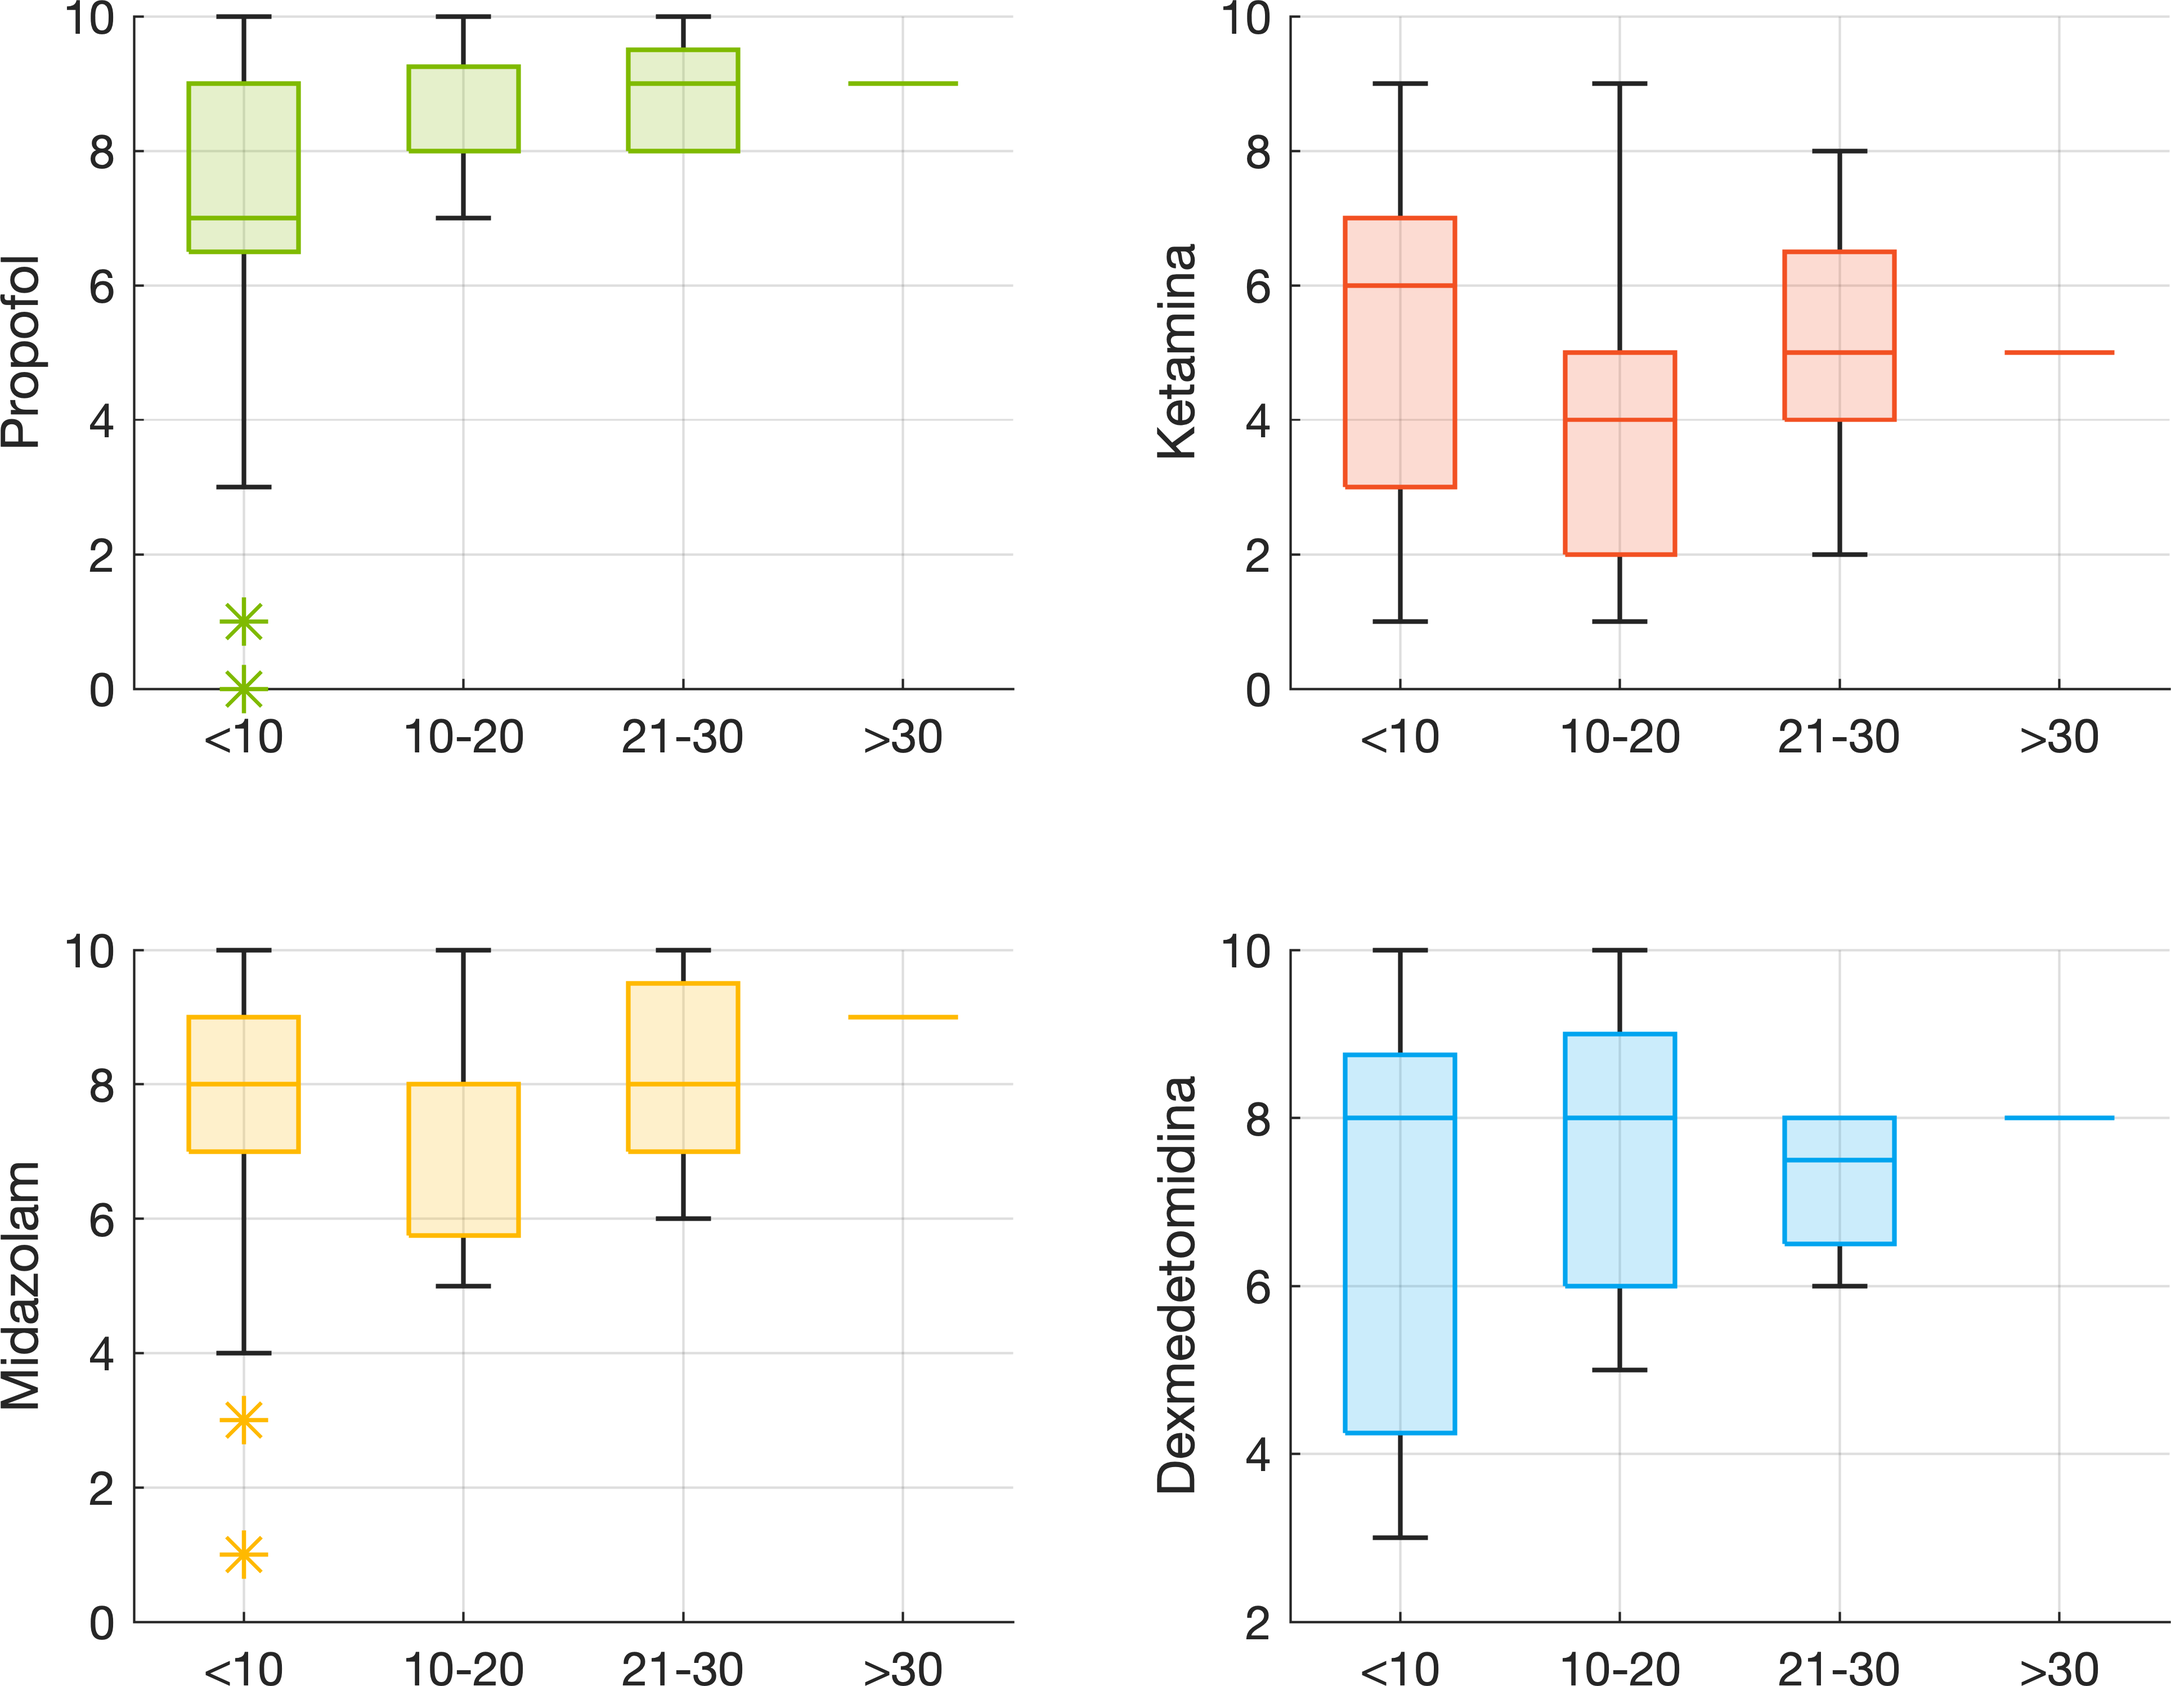
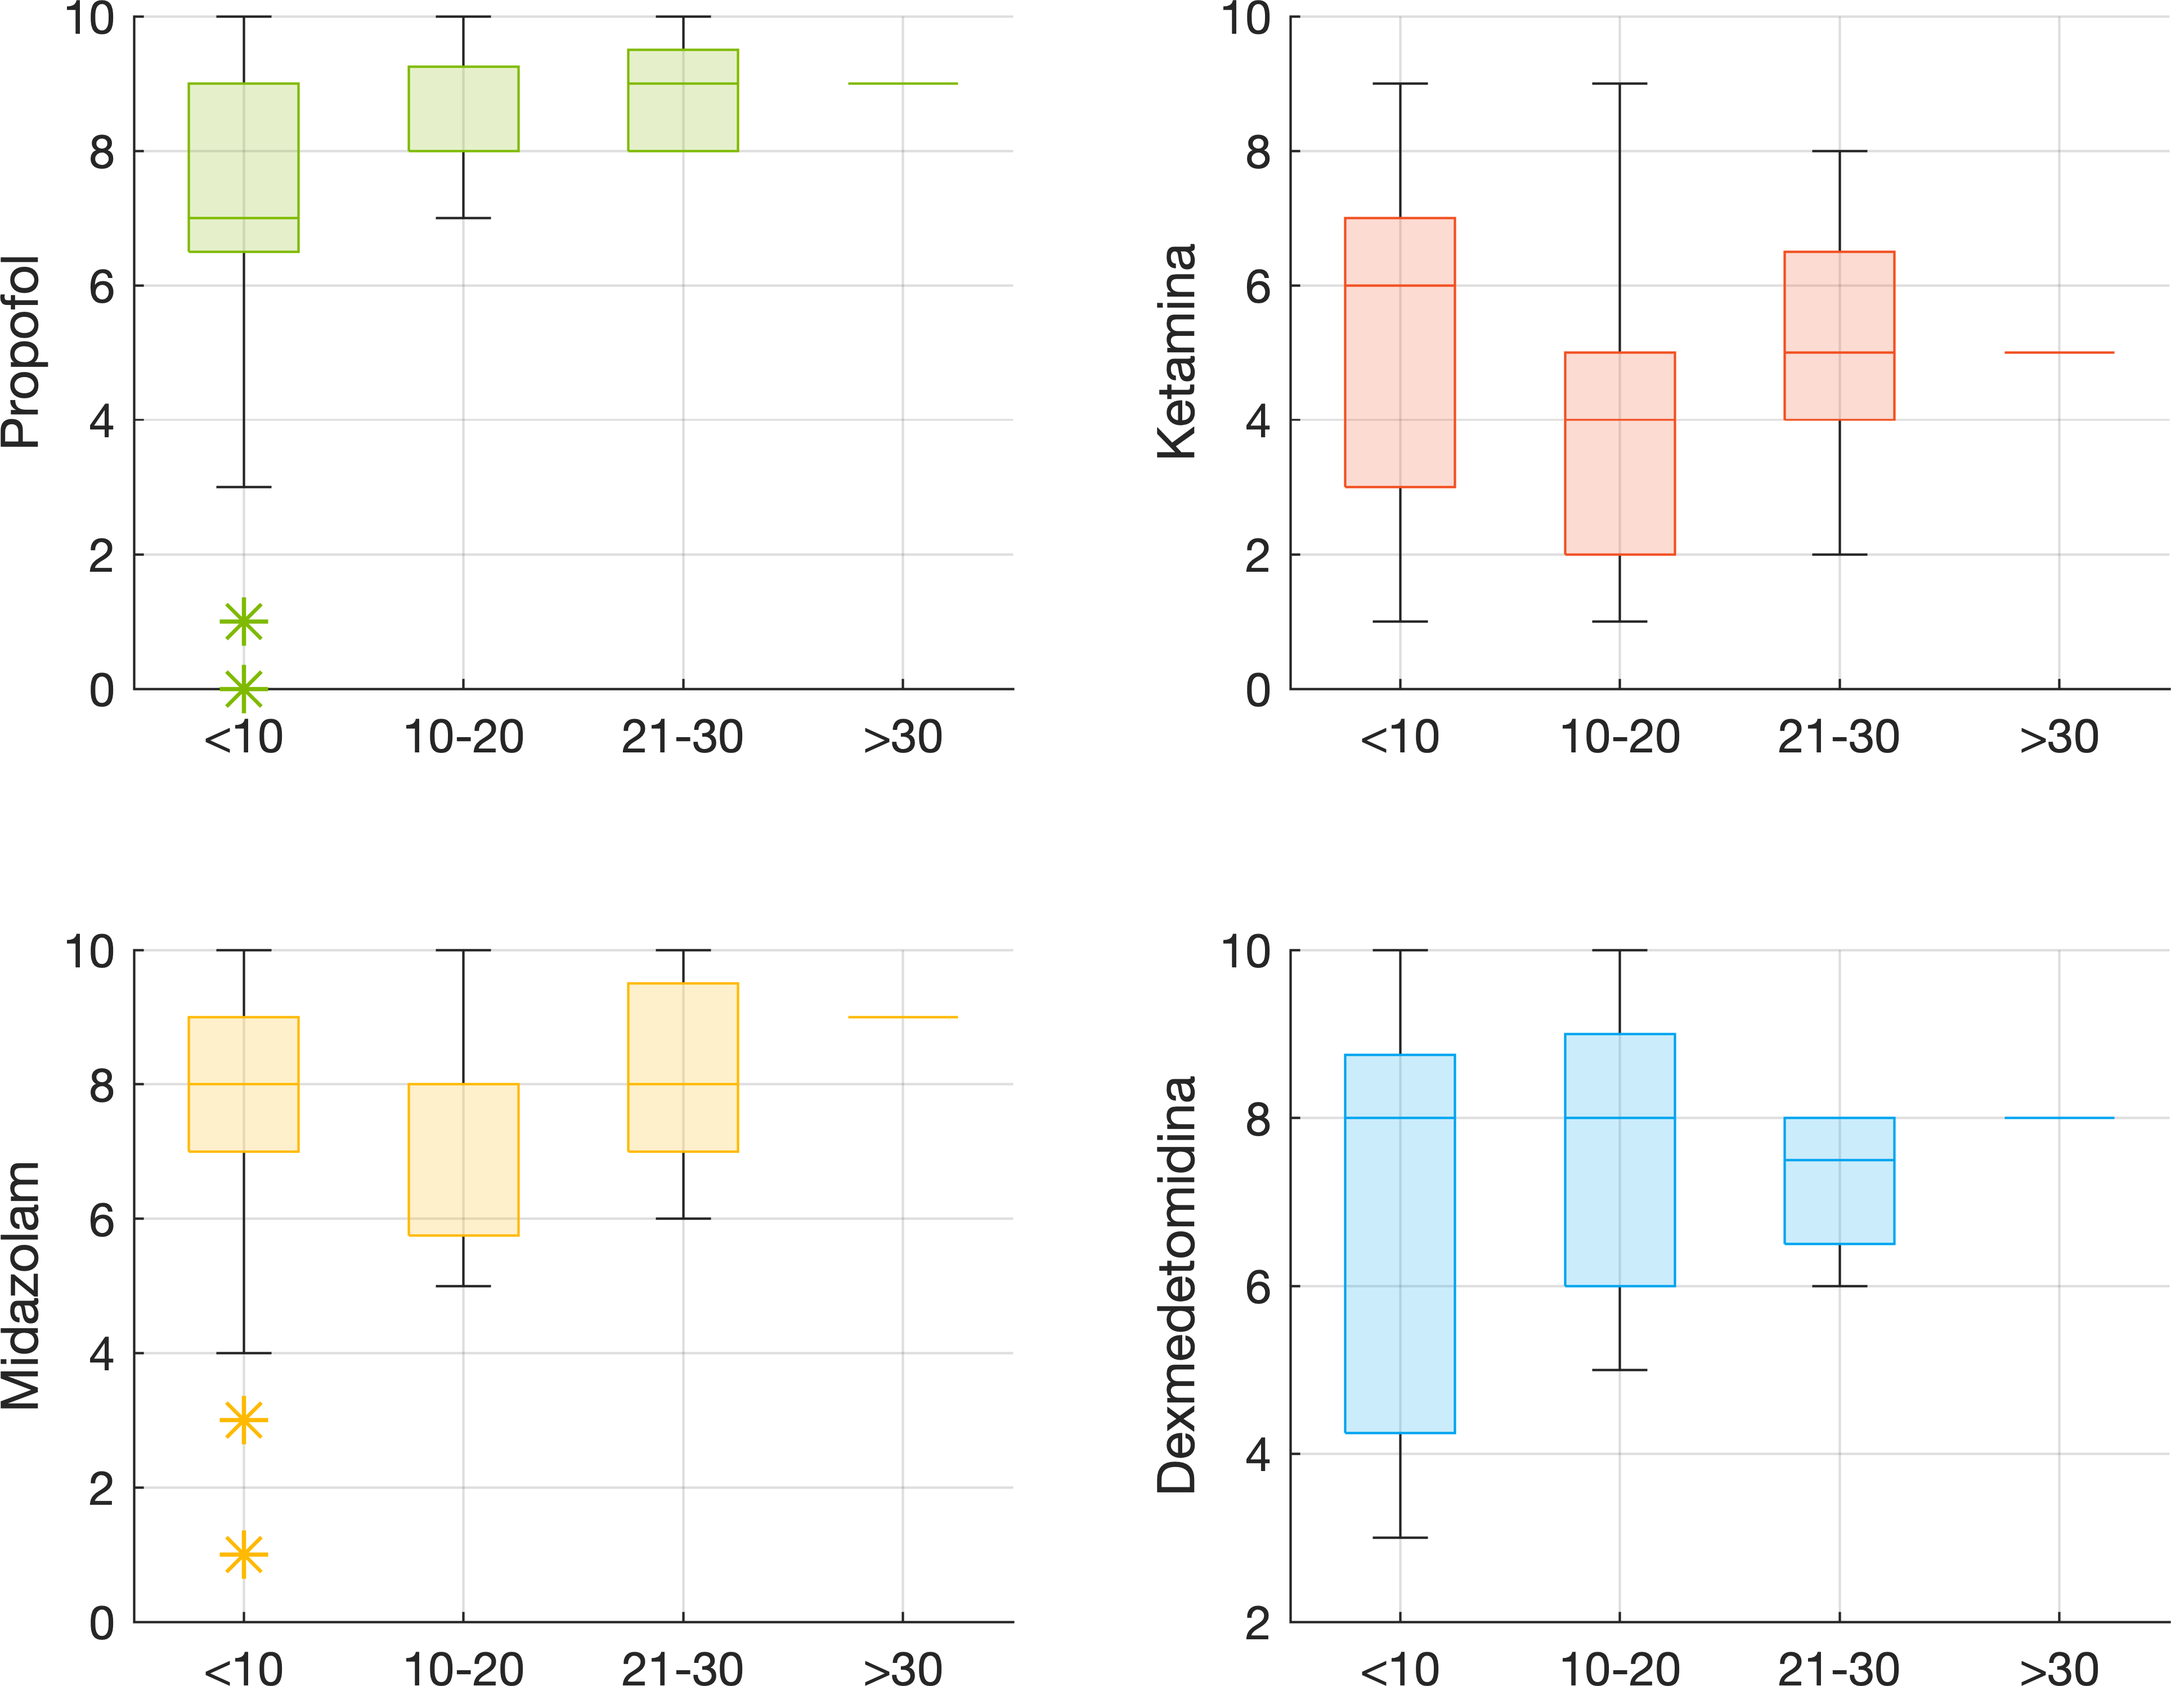
Better linewidth within subplots

diff --git a/Dati/stratifica.m b/Dati/stratifica.m
@@ -16,7 +16,7 @@
         subplot(2,2,i)
         hbx = boxplot(DATA.SEDAZIONIMESE,DATA.(LABEL{4+i}),...
             'BoxFaceColor',color_order(i,:),'MarkerColor',color_order(i,:),...
-            'MarkerStyle','*','MarkerSize',10,'Notch','off','LineWidth',1);
+            'MarkerStyle','*','MarkerSize',10,'Notch','off','LineWidth',0.5);
         ylabel(FARMACI{i}); set(gca,'Color','None'); grid on
     end
     
